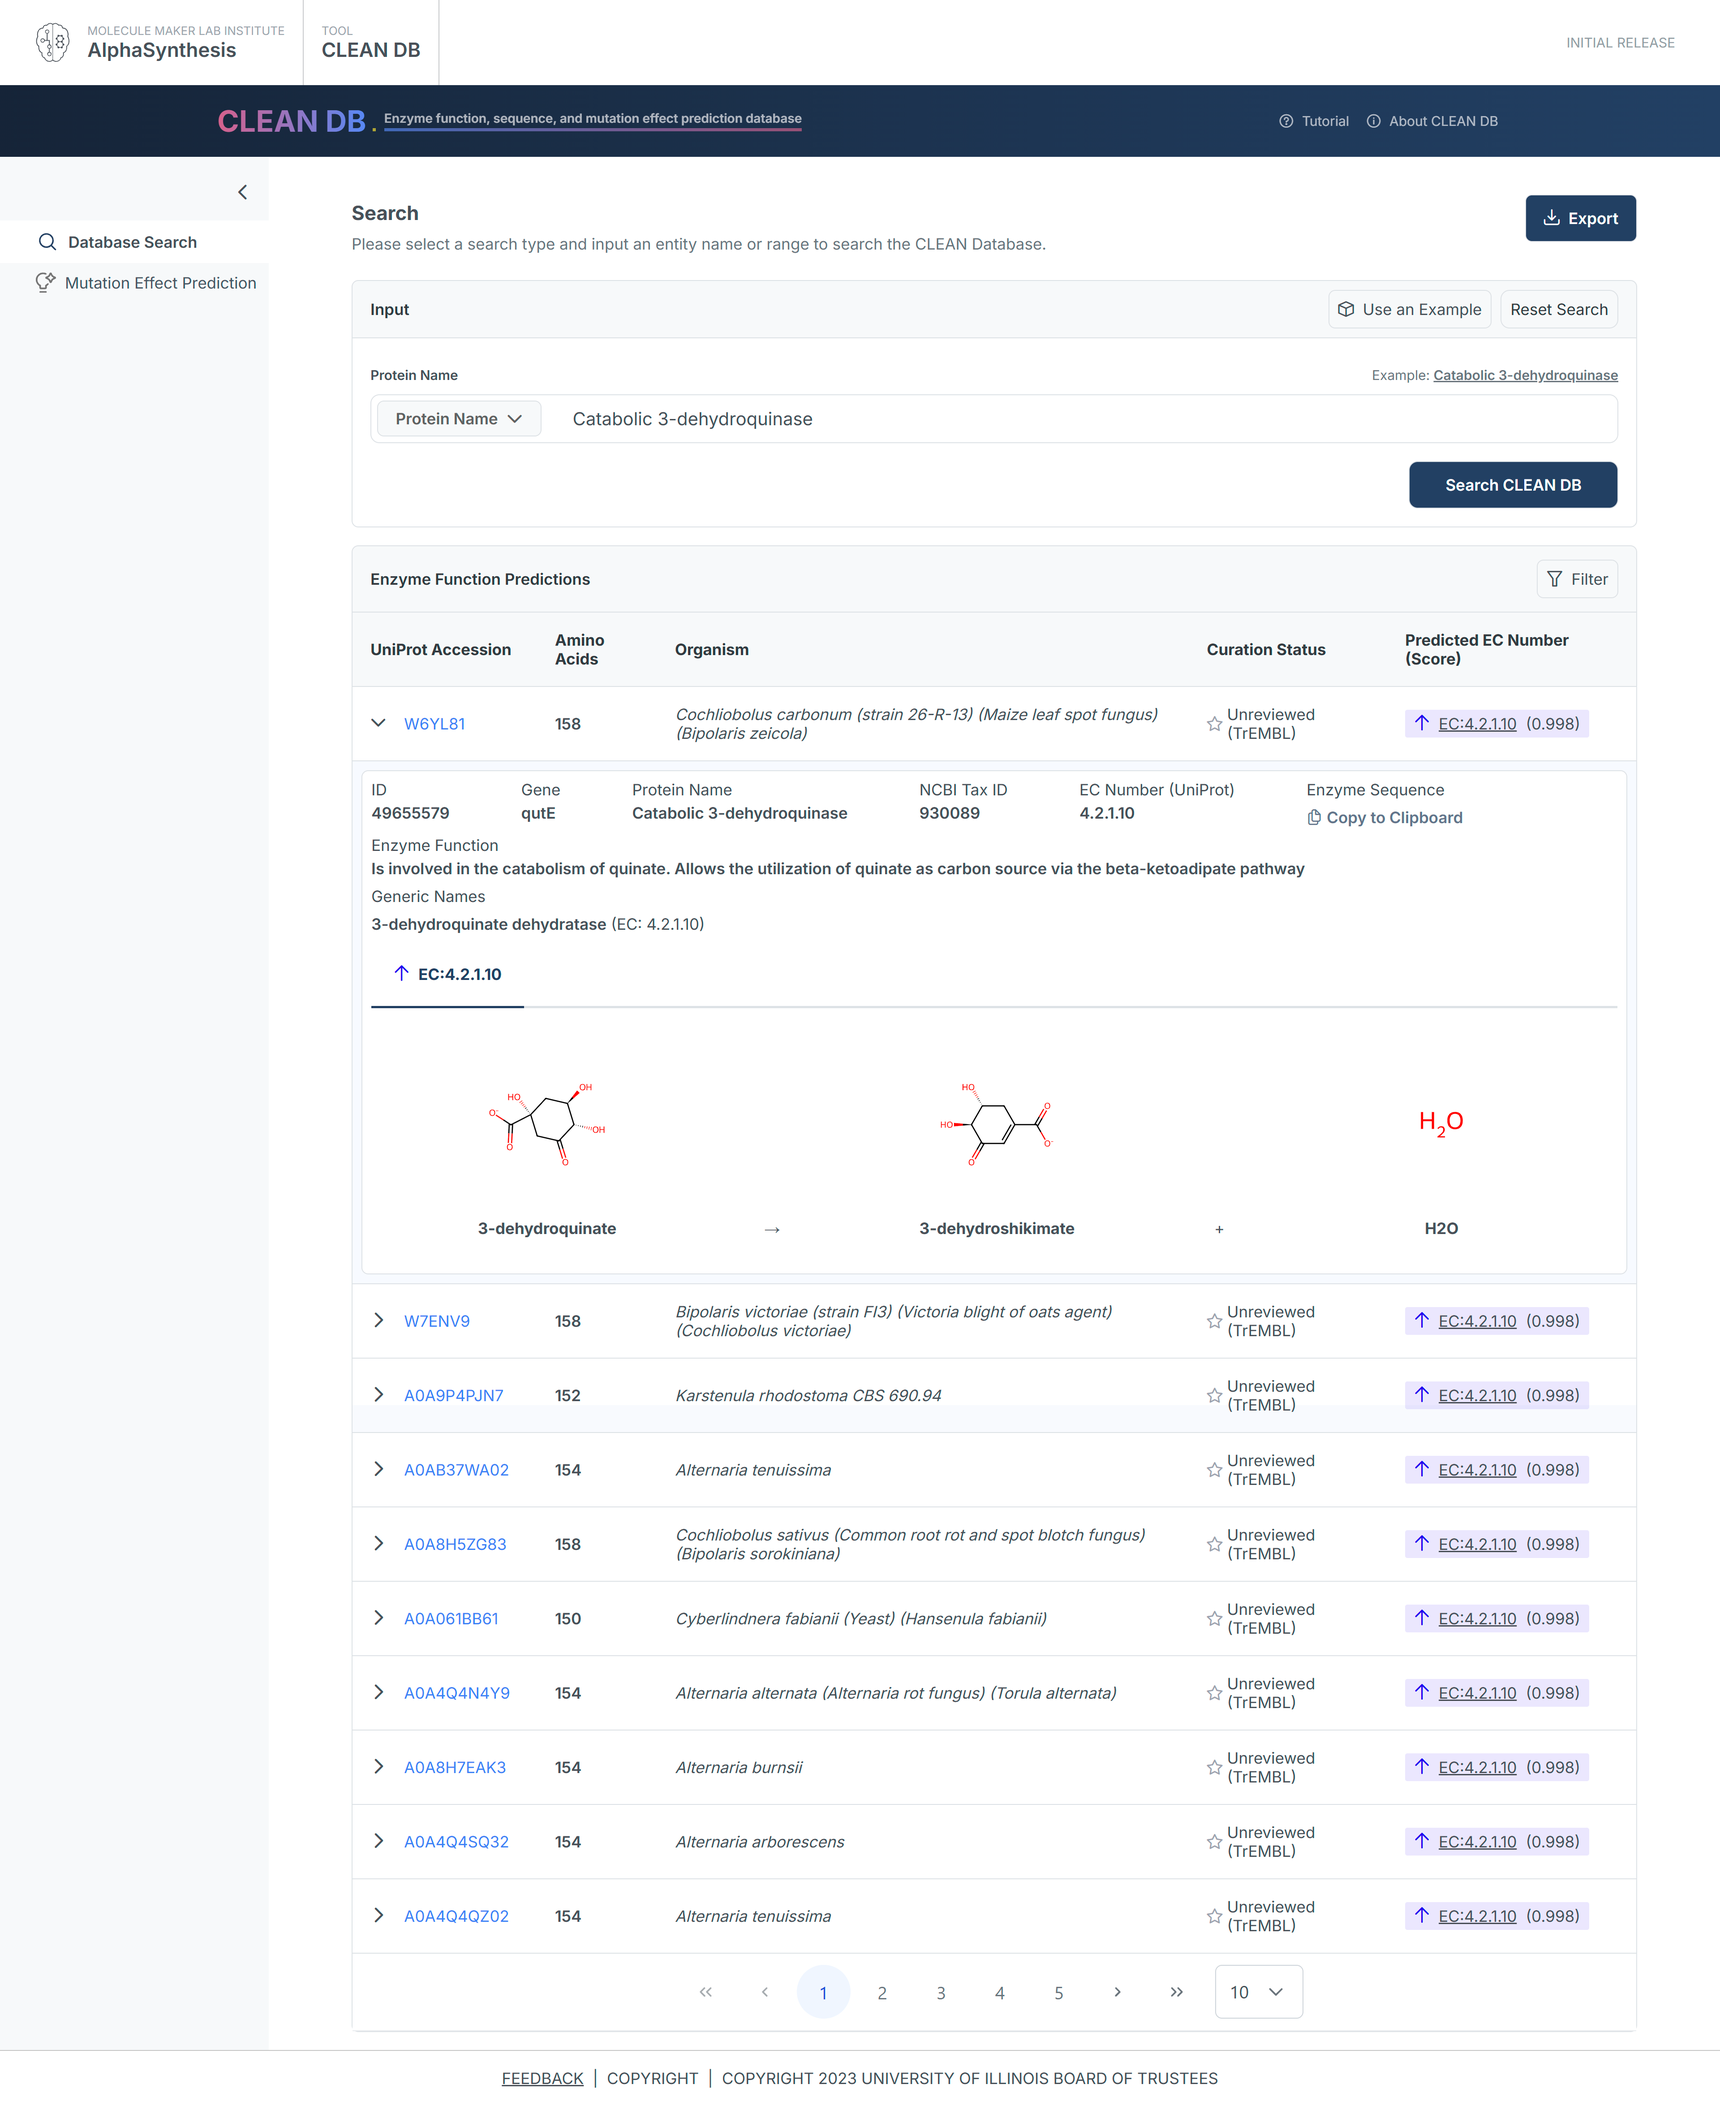
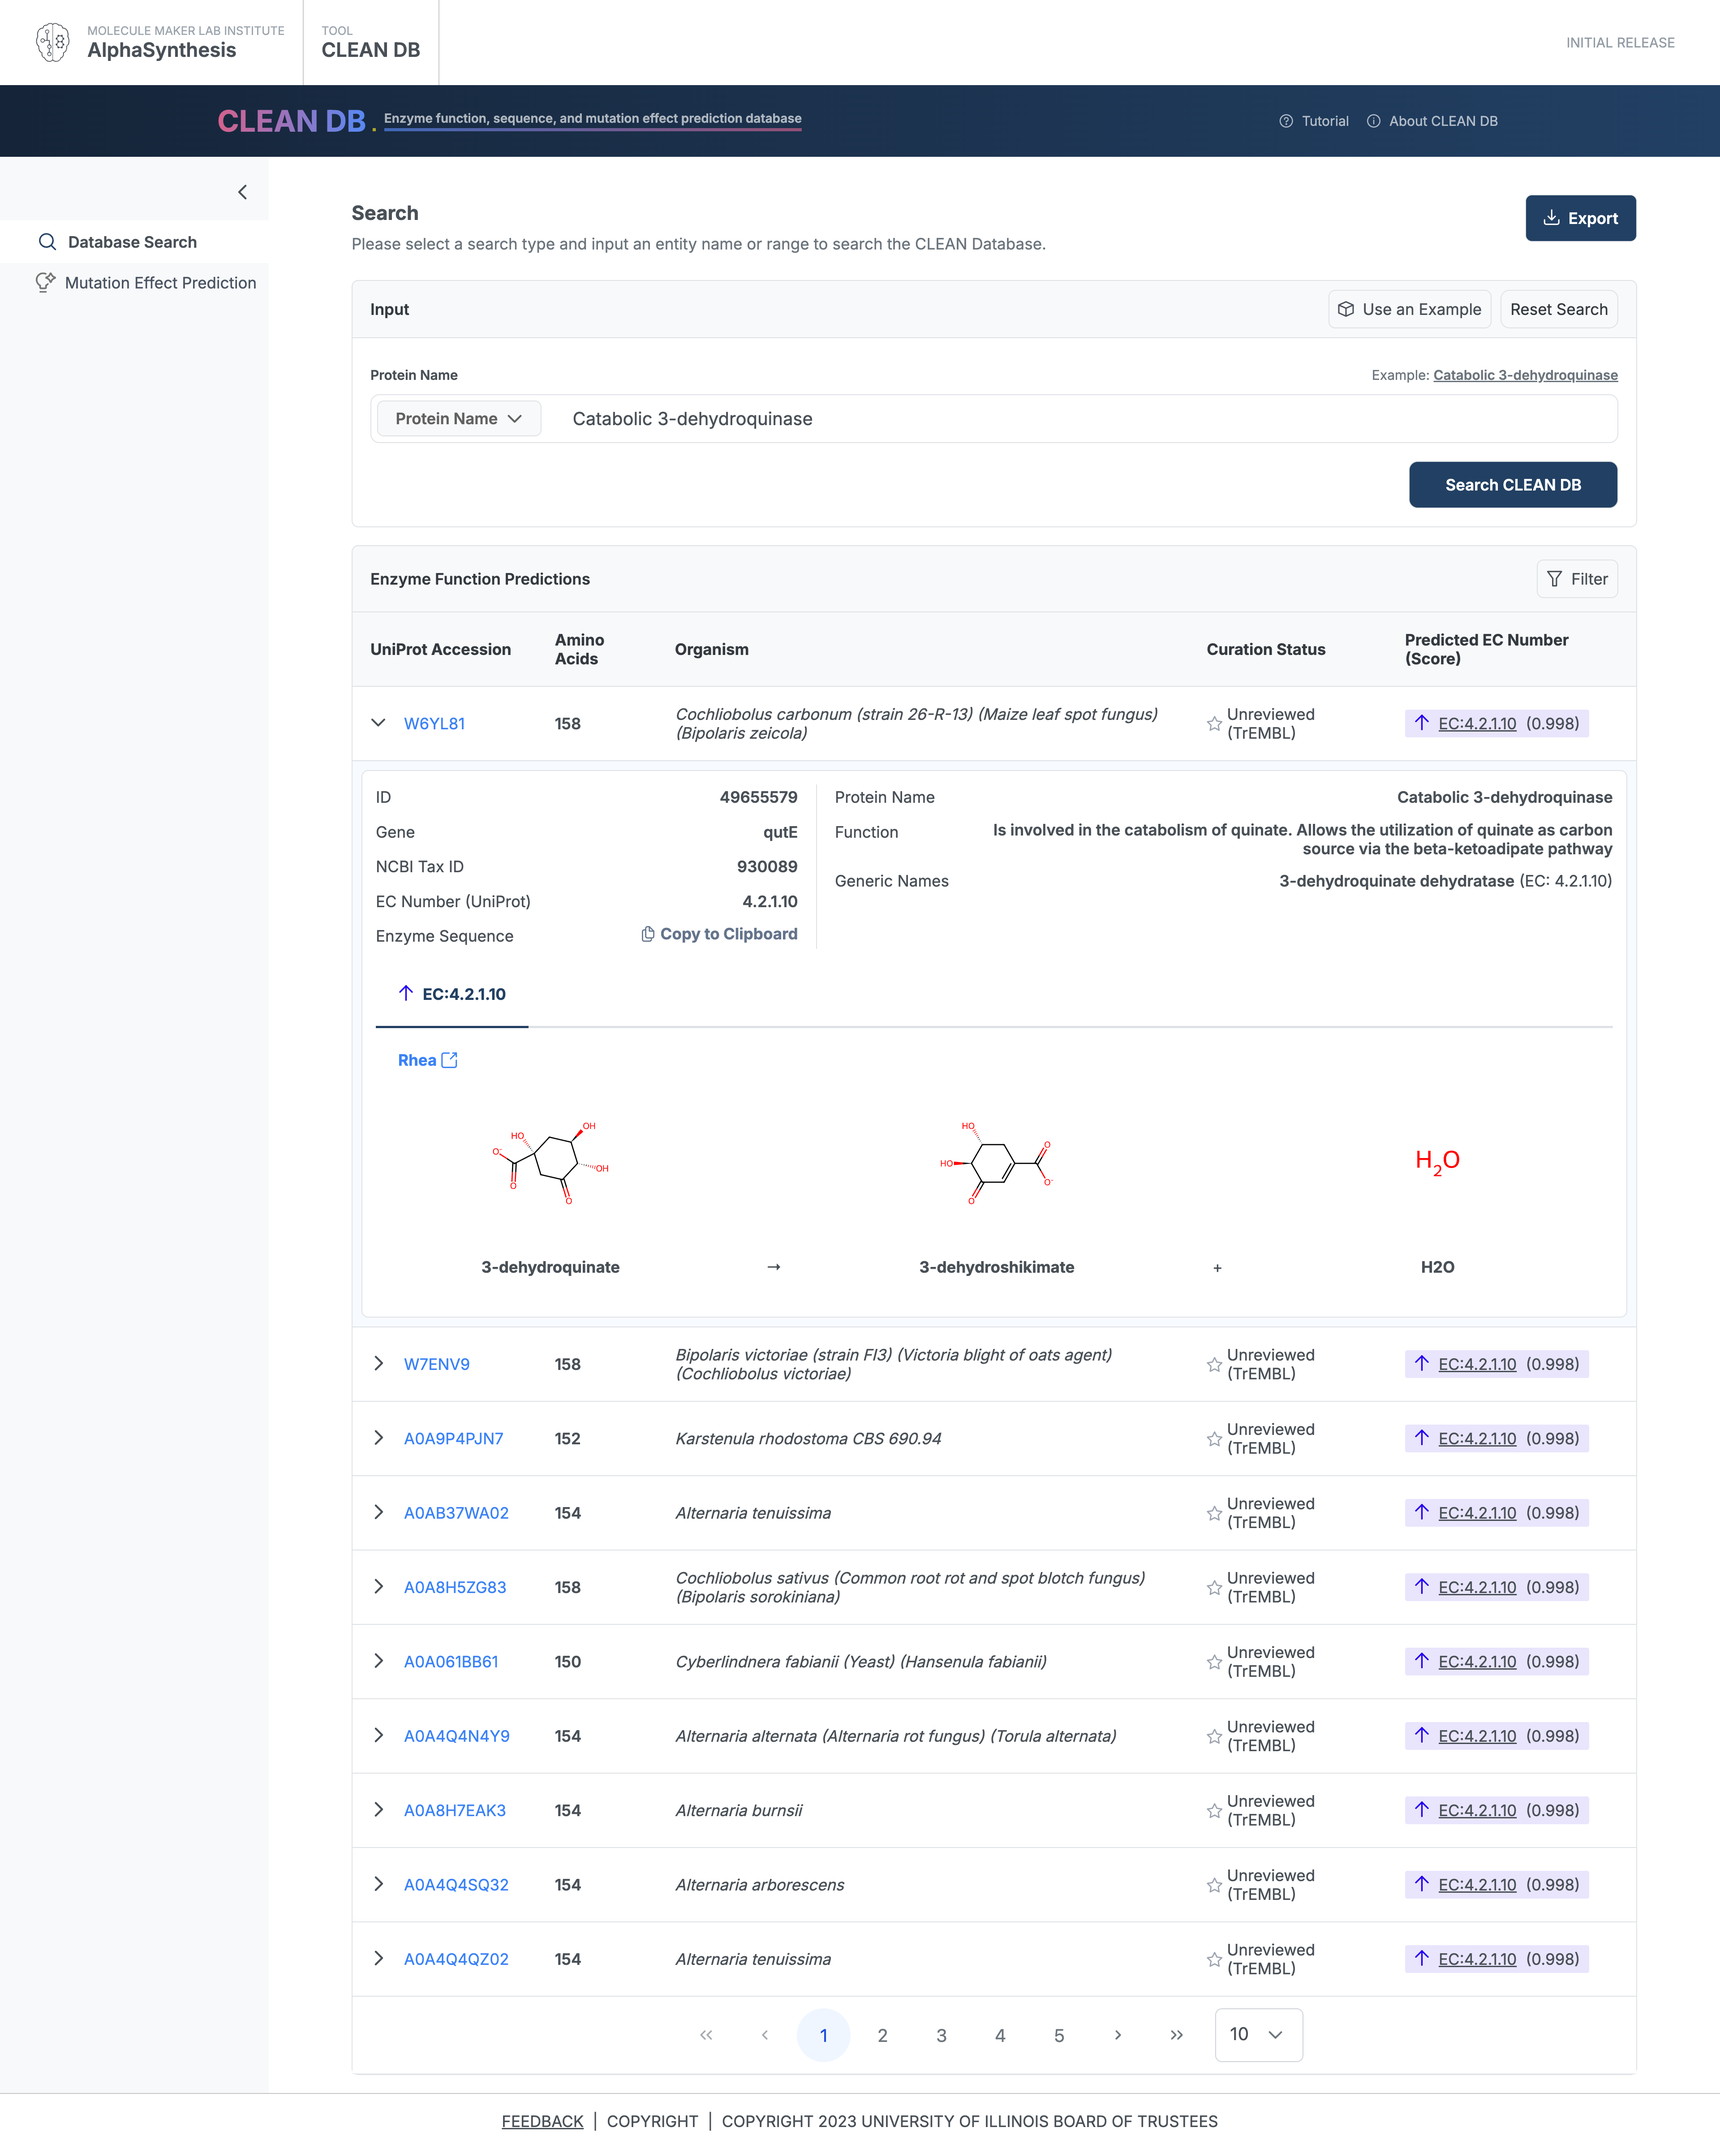
Update tutorial screenshots and captions for the Q6V4H0 example

diff --git a/src/app/components/tutorial/tutorial.component.html b/src/app/components/tutorial/tutorial.component.html
@@ -13,16 +13,16 @@
     <h6 class="text-[#6C757D] italic text-center">Multiple input types (UniProt accession, protein name, gene name, organism, or EC number) are supported for database search. Here, an example of search on the protein name "Catabolic 3-dehydroquinase" has been input.</h6>
 
     <img src="assets/screenshots/cleandb-dbsearch-protname-results-wDropdown-Margins.png" class="mt-8 w-[100%]" alt="Results page showing enzyme function predictions in a table, with expandable rows for additional information such as reference data and reaction schemes." />
-    <h6 class="text-[#6C757D] italic text-center">After clicking "Search CLEAN DB," relevant results are displayed in an "Enzyme Function Prediction" table. Users can expand individual table rows to access additional information such as reference data and reaction schemes.</h6>
+    <h6 class="text-[#6C757D] italic text-center">After clicking "Search CLEAN DB," relevant results are displayed in an "Enzyme Function Prediction" table. Users can expand individual table rows to access additional information such as reference data and reaction schemes, with links to the corresponding Rhea reactions.</h6>
 
     <h5 class="mt-10 font-semibold">Mutation Effect Prediction</h5>
     <h5 class="leading-xl">
         The mutation effect prediction functionality enables users to generate mutation effect predictions using state-of-the-art protein language models (i.e., ESM-2). After inputting an enzyme sequence, users receive residue-specific prediction results which can be explored through an interactive sequence viewer, a mutation effect heatmap, a sortable results table, and a SimpleFold-predicted 3D structure of the enzyme. Selecting amino acid residues in the sequence viewer, or clicking them directly on the protein structure, highlights the corresponding positions across the heatmap, results table, and structure, connecting each predicted mutation effect to its location in the folded protein. The results table can be sorted by position, detailed mutation, or predicted effect score.
     </h5>
 
-    <img src="assets/screenshots/cleandb-mep-inputpage-gk.png" class="mt-8 w-[100%]" alt="Input for mutation effect predictor, showing the selection of a provided example sequence."/>
-    <h6 class="text-[#6C757D] italic text-center">The analysis of enzyme sequences for mutation effect prediction across the sequence is supported. Here, the enzyme sequence for the UniProt Accession Q3TET2 (FASTA) for a mouse glycerol kinase has been input for mutation effect prediction.</h6>
+    <img src="assets/screenshots/cleandb-mep-inputpage-q6v4h0.png" class="mt-8 w-[100%]" alt="Input for mutation effect predictor, showing the selection of a provided example sequence."/>
+    <h6 class="text-[#6C757D] italic text-center">The analysis of enzyme sequences for mutation effect prediction across the sequence is supported. Here, the example enzyme sequence for 8-hydroxygeraniol dehydrogenase (UniProt Accession Q6V4H0) has been input for mutation effect prediction.</h6>
 
-    <img src="assets/screenshots/cleandb-mep-wSimpleFold-GlycerolKinase.png" class="mt-8 w-[100%]" alt="Prediction results for the specified enzyme sequence, displayed as an interactive sequence viewer, mutation effect heatmap, SimpleFold structure prediction, and tabular data." />
-    <h6 class="text-[#6C757D] italic text-center">The analysis of enzyme sequences for mutation effect prediction across the sequence is supported. Here, the enzyme sequence for the UniProt Accession Q3TET2 (FASTA) for a mouse glycerol kinase has been input for mutation effect prediction. Above an interactive sequence viewer allows users to select amino acid residues, which are then scrolled to in table of effect prediction values below and boxed on the heatmap (middle left). On the middle right, a SimpleFold prediction of the enzyme structure is shown with the selected positions highlighted.</h6>
+    <img src="assets/screenshots/cleandb-mep-wSimpleFold-Q6V4H0.png" class="mt-8 w-[100%]" alt="Prediction results for the specified enzyme sequence, displayed as an interactive sequence viewer, mutation effect heatmap, SimpleFold structure prediction colored by mutation effect score, and tabular data." />
+    <h6 class="text-[#6C757D] italic text-center">The analysis of enzyme sequences for mutation effect prediction across the sequence is supported. Here, the example enzyme sequence for 8-hydroxygeraniol dehydrogenase (UniProt Accession Q6V4H0) has been input for mutation effect prediction. Above, an interactive sequence viewer allows users to select amino acid residues, which are then scrolled to in the table of effect prediction values below and boxed on the heatmap (middle left). On the middle right, a SimpleFold prediction of the enzyme structure is colored by mutation effect score, with the selected positions highlighted. The "Color by" menu switches between Average LLR (the default, which emphasizes positions where many mutations have a strong effect, such as conserved residues or binding sites), Max LLR (which emphasizes positions where a single mutation has a strong effect, such as potential engineering targets), and a single color.</h6>
 </div>
